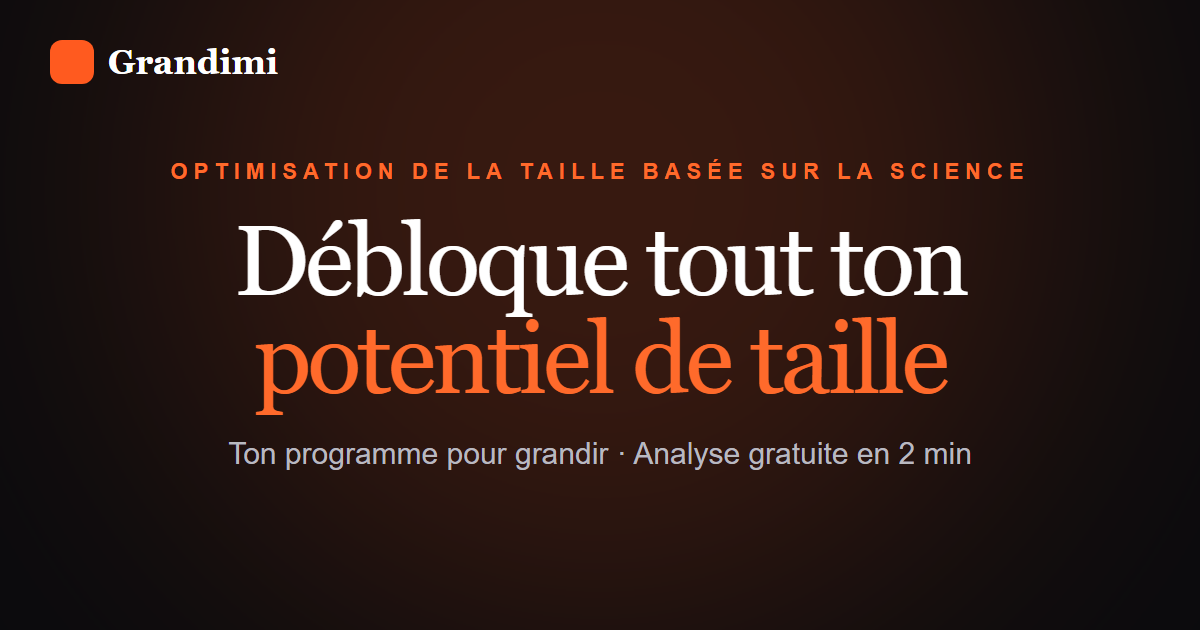
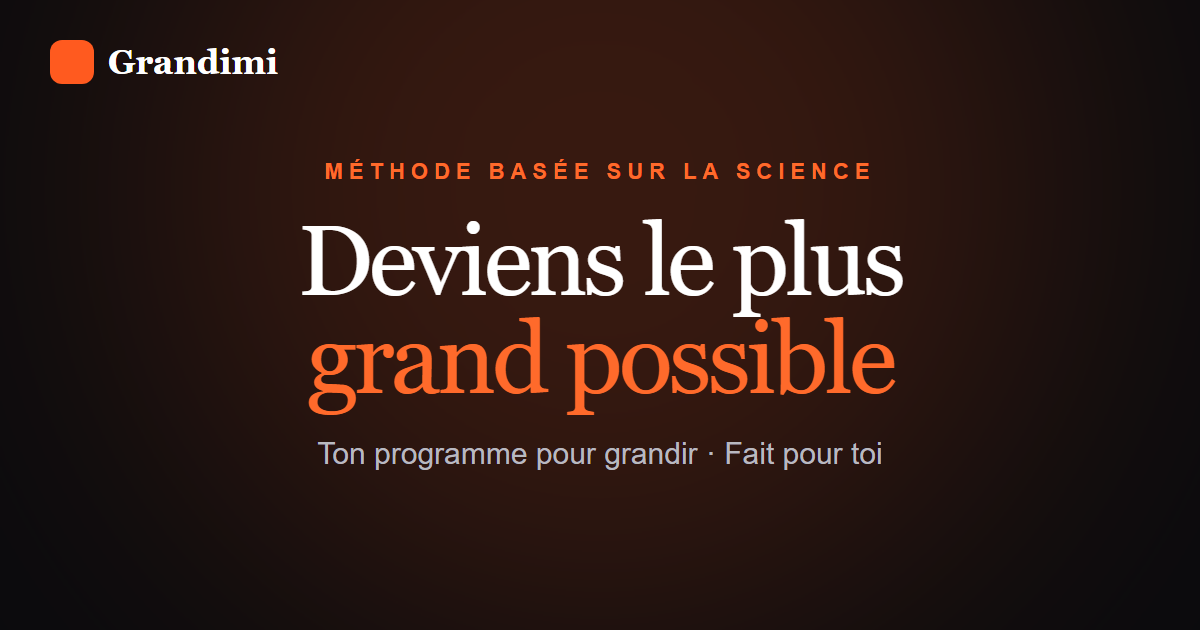
Accueil : titre « Deviens le plus grand possible », bonus taille estimée, partage aligné (non publié)

diff --git a/frontend/src/pages/HomePage.jsx b/frontend/src/pages/HomePage.jsx
@@ -16,7 +16,7 @@ const FAQ = [
   {
     question: 'Qu’est-ce que je reçois ?',
     answer:
-      'Ton programme pour grandir : ta routine du jour, ta posture, ton heure de coucher, quoi manger, et ton suivi chaque semaine.',
+      'Ton programme pour grandir : ta routine du jour, ta posture, ton heure de coucher, quoi manger, ton suivi chaque semaine. Et en bonus, ta taille adulte estimée.',
   },
   {
     question: 'Quand je vois des résultats ?',
@@ -127,9 +127,9 @@ function HomePage({ onStartQuestionnaire, onLogin, onReprendre, analyseEnCours, 
               className="rise mt-6 font-display text-[clamp(46px,11vw,88px)] leading-[0.98] font-medium tracking-[-0.045em] text-ink"
               style={{ animationDelay: '60ms' }}
             >
-              Débloque tout ton
+              Deviens le plus
               <br />
-              <span className="text-[color:var(--color-brand-display)]">potentiel de taille</span>
+              <span className="text-[color:var(--color-brand-display)]">grand possible</span>
             </h1>
 
             <p
@@ -137,7 +137,7 @@ function HomePage({ onStartQuestionnaire, onLogin, onReprendre, analyseEnCours, 
               style={{ animationDelay: '120ms' }}
             >
               Ton corps grandit encore. Chaque nuit, chaque repas, chaque exercice compte.
-              On te dit exactement quoi faire.
+              On te dit exactement quoi faire, pour toi.
             </p>
 
             <button
@@ -160,9 +160,8 @@ function HomePage({ onStartQuestionnaire, onLogin, onReprendre, analyseEnCours, 
         {/* PREUVE — de vraies personnes sont déjà passées par Grandimi. */}
         <section className="px-6 pb-16 sm:px-8">
           <div className="mx-auto w-full max-w-2xl rounded-[28px] border border-[color:var(--color-frost-gray)] bg-[color:var(--surface-card)] px-6 py-8 text-center">
-            <p className="text-[15px] text-[color:var(--text-secondary)]">Déjà</p>
-            <p className="mt-1 font-display text-[56px] leading-none font-medium text-[color:var(--color-brand-display)]">200+</p>
-            <p className="mt-3 text-[17px] font-semibold text-ink">jeunes ont déjà commencé avec Grandimi</p>
+            <p className="font-display text-[56px] leading-none font-medium text-[color:var(--color-brand-display)]">200+</p>
+            <p className="mt-3 text-[17px] font-semibold text-ink">analyses déjà faites sur Grandimi</p>
             <p className="mx-auto mt-3 max-w-sm text-[12px] leading-[1.5] text-[color:var(--text-meta)]">
               Construit sur les repères de l’Organisation mondiale de la Santé, des pédiatres et de
               l’ANSES pour la nutrition.
@@ -188,6 +187,7 @@ function HomePage({ onStartQuestionnaire, onLogin, onReprendre, analyseEnCours, 
                 ['Dors pour grandir', 'C’est la nuit que ton corps grandit. On te donne ton heure de coucher.'],
                 ['Mange pour grandir', 'Ce qu’il faut dans ton assiette pour grandir, sans régime compliqué.'],
                 ['Vois-toi grandir', 'Tu te mesures chaque semaine, et ta courbe monte.'],
+                ['Bonus : ta taille adulte estimée', 'Découvre jusqu’où tu peux aller, et vois ton estimation se mettre à jour à chaque mesure.'],
               ].map(([titre, texte]) => (
                 <div
                   key={titre}

diff --git a/frontend/index.html b/frontend/index.html
@@ -51,9 +51,9 @@
          accroches. -->
     <meta
       name="description"
-      content="Atteins ta taille maximale : ton programme pour grandir, construit à partir de tes réponses. Exercices, sommeil, alimentation, jour après jour. Analyse gratuite en 2 minutes."
+      content="Deviens le plus grand possible : ton programme pour grandir, fait pour toi. Exercices, posture, sommeil, alimentation, jour après jour."
     />
-    <title>Débloque tout ton potentiel de taille — Grandimi</title>
+    <title>Deviens le plus grand possible — Grandimi</title>
 
     <link rel="canonical" href="https://grandimi.com/" />
 
@@ -78,7 +78,7 @@
     <meta property="og:site_name" content="Grandimi" />
     <meta property="og:locale" content="fr_FR" />
     <meta property="og:url" content="https://grandimi.com/" />
-    <meta property="og:title" content="Débloque tout ton potentiel de taille — Grandimi" />
+    <meta property="og:title" content="Deviens le plus grand possible — Grandimi" />
     <meta
       property="og:description"
       content="Ton programme pour grandir : exercices, sommeil, alimentation, jour après jour. Analyse gratuite en 2 minutes."
@@ -88,10 +88,10 @@
     <meta property="og:image:height" content="630" />
     <meta
       property="og:image:alt"
-      content="Grandimi — Atteins ta taille maximale"
+      content="Grandimi — Deviens le plus grand possible"
     />
     <meta name="twitter:card" content="summary_large_image" />
-    <meta name="twitter:title" content="Débloque tout ton potentiel de taille — Grandimi" />
+    <meta name="twitter:title" content="Deviens le plus grand possible — Grandimi" />
     <meta
       name="twitter:description"
       content="Ton programme pour grandir : exercices, sommeil, alimentation. Analyse gratuite en 2 minutes."
